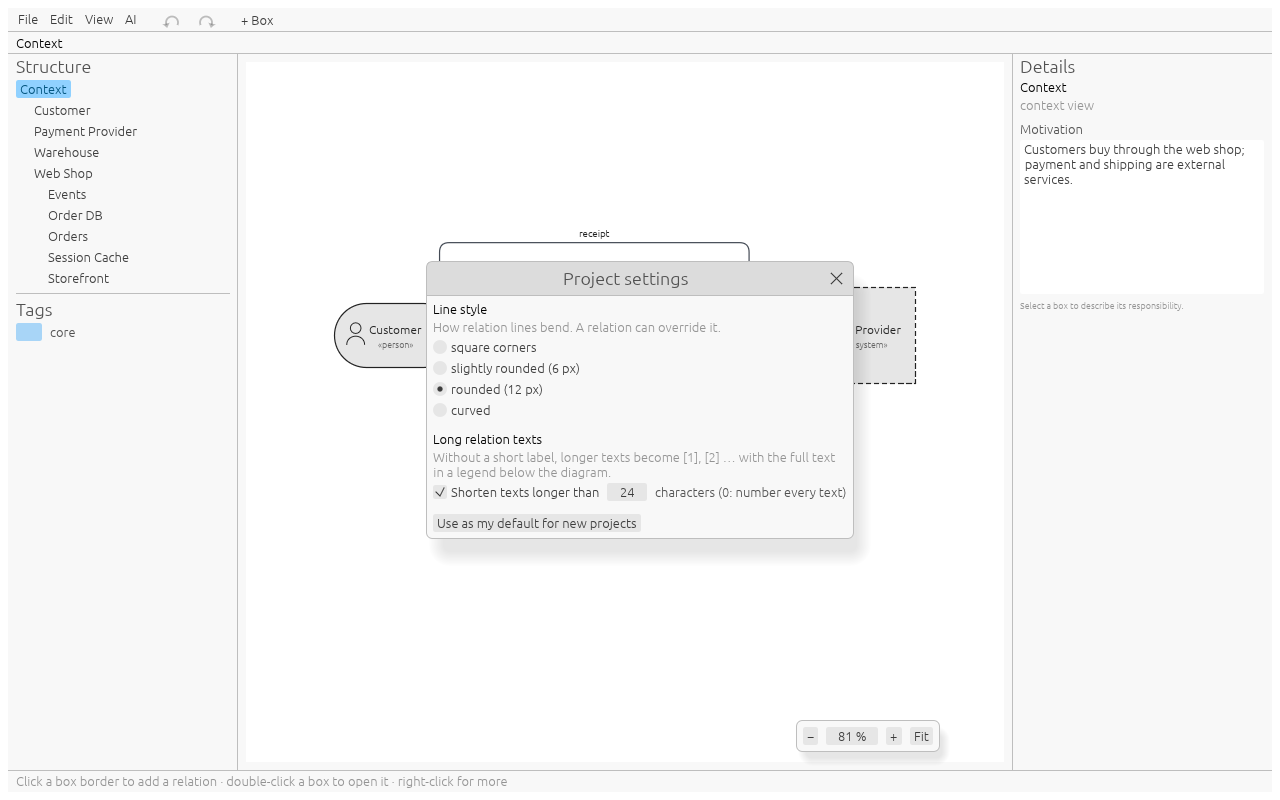
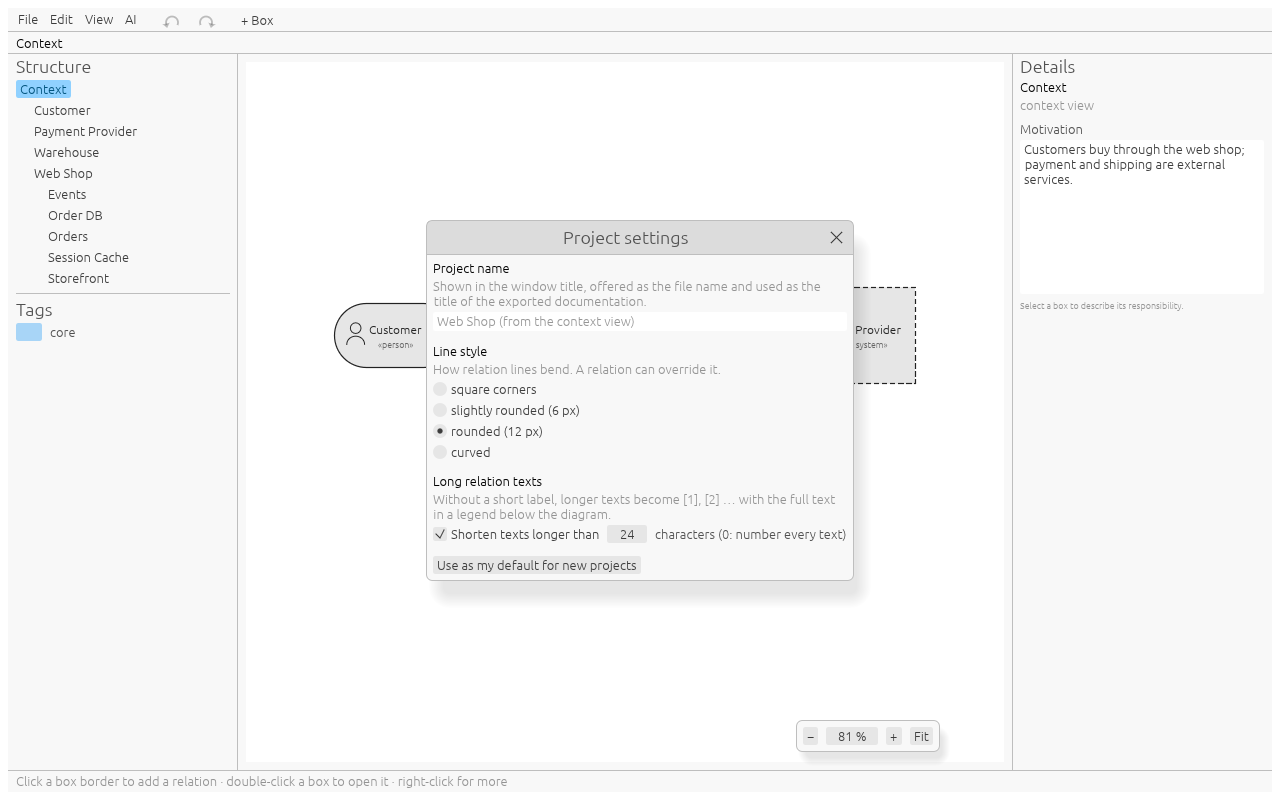
Name the project after its system box or a name set in Project settings

Changed region(s): [[0.3125, 0.25, 0.6875, 0.75], [0.5312, 0.6562, 0.6562, 0.6875]]

diff --git a/src/editor.rs b/src/editor.rs
@@ -263,25 +263,37 @@ impl Editor {
             .2
     }
 
-    /// The project's name for people: the file name without extension, or
-    /// "untitled" before the first save.
+    /// The project's name for people: its own name (see [`Project::display_name`]),
+    /// else the file name without extension, or "untitled" before the first save.
     pub fn display_name(&self) -> String {
+        self.project
+            .display_name()
+            .or_else(|| self.file_stem())
+            .unwrap_or_else(|| "untitled".into())
+    }
+
+    fn file_stem(&self) -> Option<String> {
         self.path
             .as_ref()
             .and_then(|p| p.file_stem())
             .map(|n| n.to_string_lossy().into_owned())
-            .unwrap_or_else(|| "untitled".into())
     }
 
     pub fn title(&self) -> String {
-        let name = self
-            .path
-            .as_ref()
-            .and_then(|p| p.file_name())
-            .map(|n| n.to_string_lossy().into_owned())
-            .unwrap_or_else(|| "untitled".into());
         let star = if self.dirty { " *" } else { "" };
-        format!("whiteboxed \u{2013} {name}{star}")
+        format!("whiteboxed \u{2013} {}{star}", self.display_name())
+    }
+
+    /// The file name offered on the first save: the project's name, if it has one.
+    pub fn suggested_file_name(&self) -> String {
+        match self.project.display_name() {
+            Some(name) => format!("{}.yaml", safe_file_name(&name)),
+            None => "architecture.yaml".into(),
+        }
+    }
+
+    pub fn set_project_name(&mut self, name: &str) {
+        self.apply(|p| p.set_name(name));
     }
 
     /// Names from the context view down to the current diagram.
@@ -938,10 +950,11 @@ impl Editor {
             write_file(&dir.join(format!("{name}.{ext}")), text)?;
             entries.push((*diagram, name));
         }
-        let title = self.path.as_ref().and_then(|p| p.file_stem()).map_or_else(
-            || "Architecture".to_owned(),
-            |s| s.to_string_lossy().into_owned(),
-        );
+        let title = self
+            .project
+            .display_name()
+            .or_else(|| self.file_stem())
+            .unwrap_or_else(|| "Architecture".to_owned());
         let index = doc::index_doc(&self.project, &title, &entries, format);
         write_file(&dir.join(format!("index.{ext}")), index)?;
         Ok(diagrams.len())
@@ -955,18 +968,21 @@ impl Editor {
                 parts.push(b.name.clone());
             }
         }
-        parts
-            .join(" - ")
-            .chars()
-            .map(|c| {
-                if c.is_alphanumeric() || " -_.".contains(c) {
-                    c
-                } else {
-                    '_'
-                }
-            })
-            .collect()
+        safe_file_name(&parts.join(" - "))
     }
+}
+
+/// `name` with everything but letters, digits, spaces and `-_.` replaced by `_`.
+fn safe_file_name(name: &str) -> String {
+    name.chars()
+        .map(|c| {
+            if c.is_alphanumeric() || " -_.".contains(c) {
+                c
+            } else {
+                '_'
+            }
+        })
+        .collect()
 }
 
 /// Writes a file, but never through a symlink: an export must not land elsewhere.

diff --git a/src/ui/settings.rs b/src/ui/settings.rs
@@ -14,6 +14,9 @@ pub struct Settings {
     dir: Option<PathBuf>,
     pub prefs: Prefs,
     note: Option<String>,
+    /// The project name as typed; it goes into the project when the field is left.
+    name: String,
+    naming: bool,
 }
 
 impl Settings {
@@ -25,6 +28,8 @@ impl Settings {
             dir,
             prefs,
             note: None,
+            name: String::new(),
+            naming: false,
         }
     }
 
@@ -36,6 +41,10 @@ impl Settings {
         let mut style = editor.project.line_style;
         let mut limit = editor.project.label_limit;
         let mut make_default = false;
+        if !self.naming {
+            self.name = editor.project.name.clone();
+        }
+        let mut name_done = false;
         egui::Window::new("Project settings")
             .open(&mut open)
             .collapsible(false)
@@ -44,6 +53,26 @@ impl Settings {
             .pivot(egui::Align2::CENTER_CENTER)
             .default_pos(ctx.content_rect().center())
             .show(ctx, |ui| {
+                ui.label(RichText::new("Project name").strong());
+                ui.label(
+                    RichText::new(
+                        "Shown in the window title, offered as the file name and used as the \
+                         title of the exported documentation.",
+                    )
+                    .weak(),
+                );
+                let hint = match editor.project.auto_name() {
+                    Some(n) => format!("{n} (from the context view)"),
+                    None => "the first system box of the context view".to_owned(),
+                };
+                let field = ui.add(
+                    egui::TextEdit::singleline(&mut self.name)
+                        .hint_text(hint)
+                        .desired_width(f32::INFINITY),
+                );
+                self.naming = field.has_focus();
+                name_done = field.lost_focus();
+                ui.add_space(10.0);
                 ui.label(RichText::new("Line style").strong());
                 ui.label(
                     RichText::new("How relation lines bend. A relation can override it.").weak(),
@@ -76,6 +105,10 @@ impl Settings {
                     ui.label(RichText::new(note).weak());
                 }
             });
+        if (name_done || !open) && self.name.trim() != editor.project.name {
+            editor.set_project_name(&self.name);
+            self.naming = false;
+        }
         if style != editor.project.line_style {
             editor.set_line_style(style);
         }

diff --git a/src/model/mod.rs b/src/model/mod.rs
@@ -432,6 +432,8 @@ pub struct Project {
     pub blocks: BTreeMap<BlockId, Block>,
     pub relations: BTreeMap<RelationId, Relation>,
     pub tags: BTreeMap<TagId, Tag>,
+    /// The project's name as set by the user; empty: see [`Project::display_name`].
+    pub name: String,
     /// The explanation of the context view.
     pub motivation: String,
     /// Line style for relations without their own.
@@ -451,6 +453,7 @@ impl Default for Project {
             blocks: BTreeMap::new(),
             relations: BTreeMap::new(),
             tags: BTreeMap::new(),
+            name: String::new(),
             motivation: String::new(),
             line_style: LineStyle::default(),
             label_limit: DEFAULT_LABEL_LIMIT,
@@ -462,6 +465,23 @@ impl Default for Project {
 impl Project {
     pub fn new() -> Self {
         Project::default()
+    }
+
+    /// The project's name: the one set by the user, or else [`Project::auto_name`].
+    pub fn display_name(&self) -> Option<String> {
+        if self.name.is_empty() {
+            self.auto_name()
+        } else {
+            Some(self.name.clone())
+        }
+    }
+
+    /// The name of the system: the first box of the context view that is neither a
+    /// person nor an external system. It follows that box's renames.
+    pub fn auto_name(&self) -> Option<String> {
+        self.blocks_in(None)
+            .find(|(_, b)| b.kind.can_drill())
+            .map(|(_, b)| b.name.clone())
     }
 
     pub fn block(&self, id: BlockId) -> ModelResult<&Block> {

diff --git a/tests/ui.rs b/tests/ui.rs
@@ -672,8 +672,9 @@ fn escape_keeps_editing_and_enter_saves_before_quitting() -> TestResult {
     let mut h = harness(e);
     h.run();
     request_close(&mut h);
+    // The project is named after its system box, not after the file.
     assert!(
-        h.query_by_label("Save changes to \u{201c}shop\u{201d}?")
+        h.query_by_label("Save changes to \u{201c}Shop\u{201d}?")
             .is_some()
     );
     h.key_press(Key::Escape);
@@ -875,5 +876,30 @@ fn a_new_box_outside_the_view_is_scrolled_into_it() -> TestResult {
         canvas.contains(min) && canvas.contains(max),
         "{min:?}..{max:?} not in {canvas:?}"
     );
+    Ok(())
+}
+
+#[test]
+fn project_settings_name_the_project() -> TestResult {
+    let (e, _) = one_box()?;
+    let mut h = harness(e);
+    h.run();
+    h.get_by_label("File").click();
+    h.run();
+    h.get_by_label("Project settings\u{2026}").click();
+    h.run();
+    h.get_by_role(egui::accesskit::Role::TextInput).click();
+    h.run();
+    h.event(Event::Text("Sanshain".into()));
+    h.run();
+    assert_eq!(
+        h.state().editor.project.name,
+        "",
+        "typing alone does not change it"
+    );
+    h.key_press(Key::Tab);
+    h.run();
+    assert_eq!(h.state().editor.project.name, "Sanshain");
+    assert_eq!(h.state().editor.title(), "whiteboxed \u{2013} Sanshain *");
     Ok(())
 }

diff --git a/tests/model.rs b/tests/model.rs
@@ -514,3 +514,31 @@ fn add_block_at_takes_the_cell_or_the_next_free_one() -> TestResult {
     );
     Ok(())
 }
+
+#[test]
+fn the_project_is_named_after_its_system_until_named_by_hand() -> TestResult {
+    let mut p = Project::new();
+    assert_eq!(p.display_name(), None);
+    let user = p.add_block(None, &BlockSpec::new("Customer", BlockKind::Person))?;
+    // People and external systems do not name the project.
+    assert_eq!(p.display_name(), None);
+    let (shop, _) = p.connect_new(
+        user,
+        Side::Right,
+        &component("Web Shop"),
+        Direction::Out,
+        "",
+    )?;
+    p.connect_new(shop, Side::Right, &component("Billing"), Direction::Out, "")?;
+    assert_eq!(p.display_name().as_deref(), Some("Web Shop"));
+    p.edit_block(shop, &component("Shop"))?;
+    assert_eq!(p.display_name().as_deref(), Some("Shop"));
+    p.set_name("  Sanshain ")?;
+    assert_eq!(p.display_name().as_deref(), Some("Sanshain"));
+    p.edit_block(shop, &component("Store"))?;
+    assert_eq!(p.display_name().as_deref(), Some("Sanshain"));
+    assert_eq!(p.set_name("a\nb"), Err(ModelError::ControlCharacter));
+    p.set_name("")?;
+    assert_eq!(p.display_name().as_deref(), Some("Store"));
+    Ok(())
+}

diff --git a/src/persist.rs b/src/persist.rs
@@ -29,6 +29,9 @@ pub enum PersistError {
 #[derive(Serialize, Deserialize)]
 struct FileDto {
     format: u32,
+    /// The project's name, when set by the user.
+    #[serde(default, skip_serializing_if = "String::is_empty")]
+    name: String,
     /// Explanation of the context view.
     #[serde(default, skip_serializing_if = "String::is_empty")]
     motivation: String,
@@ -129,6 +132,7 @@ fn endpoint(anchors: Vec<AnchorDto>) -> Endpoint {
 pub fn to_yaml(project: &Project) -> Result<String, PersistError> {
     let dto = FileDto {
         format: FORMAT,
+        name: project.name.clone(),
         motivation: project.motivation.clone(),
         line_style: (project.line_style != LineStyle::default()).then_some(project.line_style),
         label_limit: (project.label_limit != DEFAULT_LABEL_LIMIT).then_some(
@@ -187,6 +191,7 @@ pub fn from_yaml(text: &str) -> Result<Project, PersistError> {
         )));
     }
     let mut project = Project::new();
+    project.name = dto.name.trim().to_owned();
     project.motivation = dto.motivation;
     project.line_style = dto.line_style.unwrap_or_default();
     project.label_limit = match dto.label_limit {

diff --git a/tests/editor.rs b/tests/editor.rs
@@ -422,3 +422,23 @@ fn the_relation_popup_sets_the_sides_of_this_diagram() -> TestResult {
     assert_eq!(r.a.anchors.first().map(|x| x.side), Some(Side::Right));
     Ok(())
 }
+
+#[test]
+fn the_project_name_titles_the_window_the_file_and_the_export() -> TestResult {
+    let dir = tempfile::tempdir()?;
+    let mut e = Editor::new(None);
+    assert_eq!(e.title(), "whiteboxed \u{2013} untitled");
+    assert_eq!(e.suggested_file_name(), "architecture.yaml");
+    add_first(&mut e, "Web Shop")?;
+    assert_eq!(e.title(), "whiteboxed \u{2013} Web Shop *");
+    e.set_project_name("Shop/Backend");
+    assert_eq!(e.display_name(), "Shop/Backend");
+    assert_eq!(e.suggested_file_name(), "Shop_Backend.yaml");
+    e.undo();
+    assert_eq!(e.display_name(), "Web Shop");
+    e.redo();
+    e.export_all(dir.path(), DocFormat::Markdown)?;
+    let index = std::fs::read_to_string(dir.path().join("index.md"))?;
+    assert!(index.starts_with("# Shop/Backend"), "{index}");
+    Ok(())
+}

diff --git a/tests/persist.rs b/tests/persist.rs
@@ -180,3 +180,14 @@ fn label_limits_and_short_labels_survive_the_file() -> TestResult {
     assert_eq!(persist::from_yaml(&yaml)?, p);
     Ok(())
 }
+
+#[test]
+fn the_project_name_is_saved_only_when_set() -> TestResult {
+    let mut p = sample()?;
+    assert!(!persist::to_yaml(&p)?.contains("name: Sanshain"));
+    p.set_name("Sanshain")?;
+    let yaml = persist::to_yaml(&p)?;
+    assert!(yaml.starts_with("format: 1\nname: Sanshain\n"), "{yaml}");
+    assert_eq!(persist::from_yaml(&yaml)?.name, "Sanshain");
+    Ok(())
+}

diff --git a/src/model/edit.rs b/src/model/edit.rs
@@ -485,6 +485,13 @@ impl Project {
         self.label_limit = limit;
     }
 
+    /// Sets the project's name; empty takes it from the context view again.
+    pub fn set_name(&mut self, name: &str) -> ModelResult<()> {
+        check_name_text(name)?;
+        self.name = name.trim().to_owned();
+        Ok(())
+    }
+
     /// Sets the project's line style.
     pub fn set_line_style(&mut self, style: LineStyle) {
         self.line_style = style;

diff --git a/src/ui/mod.rs b/src/ui/mod.rs
@@ -1111,7 +1111,7 @@ impl App {
         self.commit_draft();
         let Some(mut path) = rfd::FileDialog::new()
             .add_filter("whiteboxed project", &["yaml", "yml"])
-            .set_file_name("architecture.yaml")
+            .set_file_name(self.editor.suggested_file_name())
             .save_file()
         else {
             return false;

diff --git a/docs/guide.md b/docs/guide.md
@@ -135,6 +135,10 @@ There is nothing to position by pixel.
 
 ![Project settings: line style and when texts get shortened](screenshots/project-settings.png)
 
+- **Project name**: shown in the window title, offered as the file name on the first
+  save and used as the title of the exported documentation. Until you type one, the
+  project is named after the first box of the context view that is not a person or an
+  external system, and follows its renames. Empty the field to go back to that.
 - **Line style**: how relation lines bend. A relation can override it in its
   **Edit…** dialog.
 - **Shorten texts longer than … characters**: from which length a text moves to the
@@ -333,7 +337,7 @@ relations:
 ```
 
 Project-wide settings sit at the top of the file and are only written when they
-differ from the defaults: `line_style` (`square`, `round6`, `round12`, `curved`;
+differ from the defaults: `name` (the project name, when you set one), `line_style` (`square`, `round6`, `round12`, `curved`;
 default `round12`) and `label_limit` (default 24; `never` turns shortening off).
 
 - `kind`: `component`, `database`, `queue`, `cache`, `file_storage`, `ui`, `person`,

diff --git a/CHANGELOG.md b/CHANGELOG.md
@@ -8,6 +8,7 @@ The format is based on [Keep a Changelog](https://keepachangelog.com/en/1.1.0/).
 
 ### Added
 
+- A project name in Project settings, taken from the system box of the context view until you set one. It titles the window, the unsaved-changes question and the exported documentation, and is offered as the file name on the first save.
 - Zoom buttons in the lower right corner of the canvas (−, the zoom level with a click for 100 %, +, Fit), Ctrl+= / Ctrl+− / Ctrl+0, and zoom entries in the View menu. The view no longer jumps back to fit the whole diagram after every change; new boxes outside it are scrolled into view.
 - Boxes without a relation can be added anywhere: right-click empty space > Add box here puts the box in that cell, and + Box in the menu bar puts it in the next free cell.
 - Short labels for relations; long texts without one appear as [1], [2] … with the full text in a legend below the diagram (in the app, the export and as a tooltip). When texts get shortened is set in Project settings.
